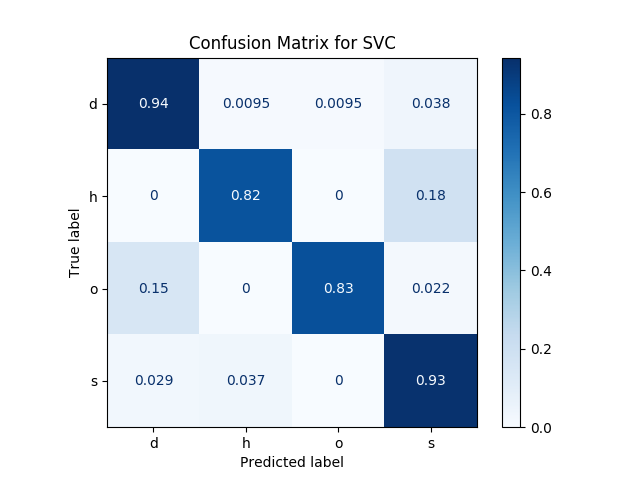
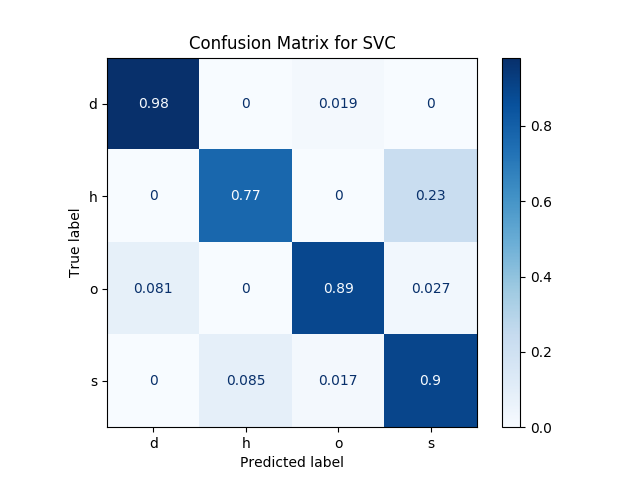
cleaned up and added random state for consistency

diff --git a/main.py b/main.py
@@ -5,7 +5,6 @@ written by Nicholas Cannon
 from sklearn.pipeline import Pipeline
 from sklearn.preprocessing import StandardScaler, FunctionTransformer
 from sklearn.svm import SVC
-from sklearn import svm
 from sklearn.multiclass import OneVsOneClassifier
 from sklearn.model_selection import GridSearchCV
 from sklearn.linear_model import SGDClassifier
@@ -41,7 +40,7 @@ def save_model(model):
 
 
 def train_svc(X_train, y_train, save=True):
-    ovo_svc = OneVsOneClassifier(SVC())
+    ovo_svc = OneVsOneClassifier(SVC(random_state=42))
 
     # NOTE: the SVC estimator is stored as estimator on the OneVsOneClassifier
     # use __ to access properties of nested estimator
@@ -67,7 +66,7 @@ def train_svc(X_train, y_train, save=True):
 
 
 def train_sgd(X_train, y_train, save=True):
-    ovo_sgd = OneVsOneClassifier(SGDClassifier())
+    ovo_sgd = OneVsOneClassifier(SGDClassifier(random_state=42))
 
     # NOTE: the SVC estimator is stored as estimator on the OneVsOneClassifier
     # use __ to access properties of nested estimator
